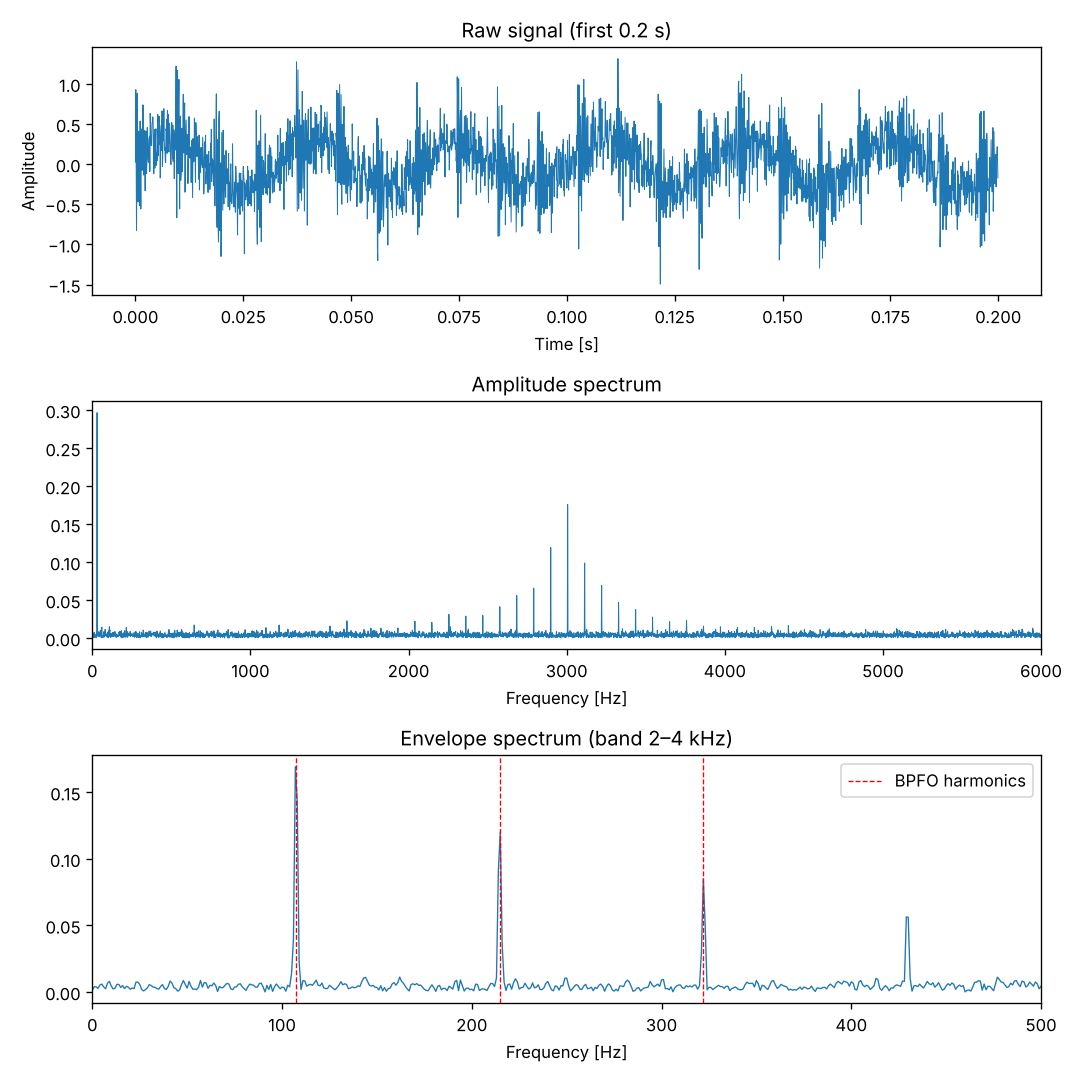
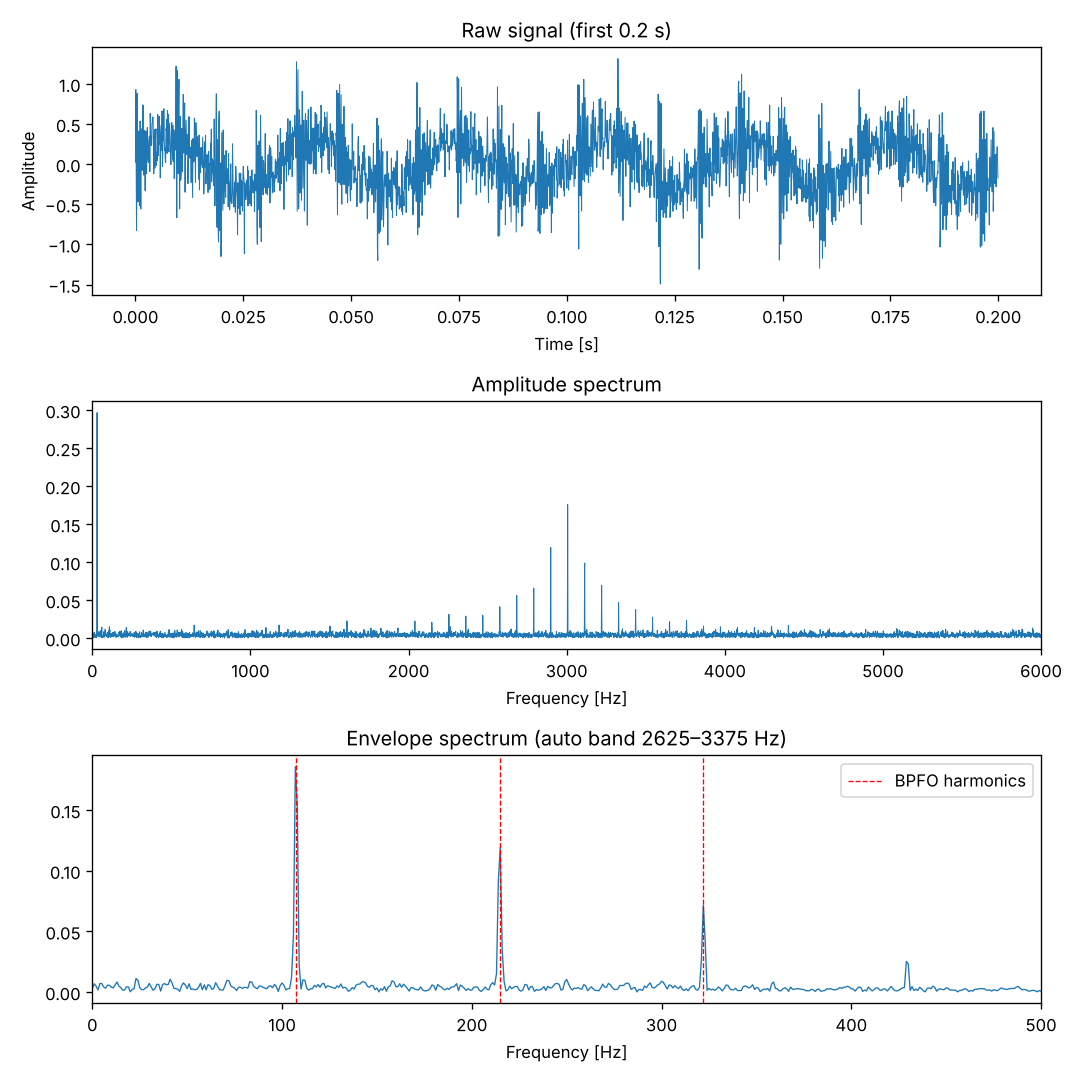
Add files via upload
v0.2.0: spectral kurtosis band selection and frequency-domain features

diff --git a/vibkit/spectral.py b/vibkit/spectral.py
@@ -41,6 +41,57 @@ def envelope_spectrum(x, fs, band=None, window="hann"):
     return amplitude_spectrum(env, fs, window=window)
 
 
+def spectral_kurtosis(x, fs, nperseg=128):
+    """Spectral kurtosis (SK) from the STFT.
+
+    SK(f) = <|X(t,f)|^4> / <|X(t,f)|^2>^2 - 2. It is ~0 for stationary
+    Gaussian noise and large in frequency bands where the signal is
+    impulsive, which is where bearing-fault impacts excite resonances.
+
+    Returns (freqs, sk).
+    """
+    f, _, z = sps.stft(np.asarray(x, dtype=float), fs=fs, nperseg=nperseg)
+    p = np.abs(z) ** 2
+    sk = np.mean(p ** 2, axis=1) / (np.mean(p, axis=1) ** 2 + 1e-24) - 2
+    sk[0] = 0.0  # DC bin is not meaningful
+    return f, sk
+
+
+def select_band(x, fs, nperseg_list=(16, 32, 64, 128)):
+    """Pick the band with the highest spectral kurtosis for envelope analysis.
+
+    A simplified kurtogram: SK is computed at several frequency resolutions;
+    the winning bin defines a band centred on it with width ``fs / nperseg``.
+
+    Finer resolutions use fewer STFT frames, so their SK estimates are noisier.
+    To compare resolutions fairly, each SK value is scored against the
+    standard deviation of SK for Gaussian noise, ~ 2 / sqrt(n_frames), and the
+    most significant bin wins.
+
+    Returns a dict with ``band`` (low, high) in Hz, ``center``, ``sk``,
+    ``score`` and ``nperseg``. Use it as
+    ``envelope_spectrum(x, fs, band=res["band"])``.
+    """
+    best = None
+    nyq = fs / 2
+    n_samples = np.asarray(x).size
+    for n in nperseg_list:
+        f, sk = spectral_kurtosis(x, fs, nperseg=n)
+        bw = fs / n
+        valid = (f - bw / 2 > 0) & (f + bw / 2 < nyq)
+        if not valid.any():
+            continue
+        n_frames = max(1, 2 * n_samples // n)  # default STFT overlap is 50%
+        score = sk * np.sqrt(n_frames) / 2
+        i = np.flatnonzero(valid)[np.argmax(score[valid])]
+        if best is None or score[i] > best["score"]:
+            best = {"band": (f[i] - bw / 2, f[i] + bw / 2), "center": f[i],
+                    "sk": float(sk[i]), "score": float(score[i]), "nperseg": n}
+    if best is None:
+        raise ValueError("signal too short for the requested resolutions")
+    return best
+
+
 def spectrogram(x, fs, nperseg=256, noverlap=None, log=True):
     """Short-time Fourier transform magnitude.
 

diff --git a/tests/test_vibkit.py b/tests/test_vibkit.py
@@ -83,3 +83,37 @@ def test_contact_angle_changes_frequencies():
     g0 = BearingGeometry(9, 0.3, 1.5, 0)
     g15 = BearingGeometry(9, 0.3, 1.5, 15)
     assert fault_frequencies(g15, 30)["BPFO"] > fault_frequencies(g0, 30)["BPFO"]
+
+
+# ---- v0.2.0: spectral kurtosis band selection & frequency features ----
+
+def test_select_band_finds_resonance():
+    from vibkit import select_band
+    sys.path.insert(0, str(Path(__file__).resolve().parents[1] / "examples"))
+    from demo_outer_race_fault import simulate_outer_race_fault
+    fs = 12_000
+    _, x, bpfo = simulate_outer_race_fault(fs=fs, snr_db=-5, resonance_hz=3_000)
+    res = select_band(x, fs)
+    lo, hi = res["band"]
+    assert 2_000 < (lo + hi) / 2 < 4_000  # inside the excited resonance region
+    f, a = envelope_spectrum(x, fs, band=res["band"])
+    sel = (f > 20) & (f < 500)
+    assert f[sel][np.argmax(a[sel])] == pytest.approx(bpfo, abs=2)
+
+
+def test_spectral_kurtosis_gaussian_near_zero():
+    from vibkit import spectral_kurtosis
+    x = np.random.default_rng(3).normal(size=60_000)
+    _, sk = spectral_kurtosis(x, fs=1000, nperseg=128)
+    assert np.median(np.abs(sk[1:-1])) < 0.2
+
+
+def test_frequency_features_sine():
+    from vibkit import frequency_features, FREQ_FEATURE_NAMES
+    fs = 1000
+    t = np.arange(1000) / fs
+    sine = dict(zip(FREQ_FEATURE_NAMES, frequency_features(np.sin(2 * np.pi * 120 * t), fs)[0]))
+    assert sine["peak_freq"] == pytest.approx(120)
+    assert sine["mean_freq"] == pytest.approx(120, abs=1)
+    noise = frequency_features(np.random.default_rng(4).normal(size=1000), fs)[0]
+    assert sine["spectral_entropy"] < 0.1 < 0.8 < noise[4]

diff --git a/vibkit/features.py b/vibkit/features.py
@@ -41,3 +41,33 @@ def time_features(windows, eps=1e-12):
     return np.column_stack(
         [mean, std, rms, peak, p2p, skew, kurt, crest, shape, impulse, clearance]
     )
+
+
+FREQ_FEATURE_NAMES = [
+    "mean_freq", "freq_std", "rms_freq", "peak_freq", "spectral_entropy",
+]
+
+
+def frequency_features(windows, fs, eps=1e-12):
+    """Compute 5 frequency-domain features per window from its power spectrum.
+
+    mean_freq        : spectral centroid (Hz)
+    freq_std         : spread of the spectrum around the centroid (Hz)
+    rms_freq         : root-mean-square frequency (Hz)
+    peak_freq        : frequency of the largest spectral line (Hz)
+    spectral_entropy : normalized Shannon entropy of the spectrum, in [0, 1]
+                       (low = energy in a few lines, high = noise-like)
+
+    Returns np.ndarray, shape (n_windows, 5) — columns follow ``FREQ_FEATURE_NAMES``.
+    """
+    w = np.atleast_2d(np.asarray(windows, dtype=float))
+    w = w - w.mean(axis=1, keepdims=True)
+    p = np.abs(np.fft.rfft(w, axis=1)) ** 2
+    f = np.fft.rfftfreq(w.shape[1], d=1.0 / fs)
+    prob = p / (p.sum(axis=1, keepdims=True) + eps)
+    mean_f = prob @ f
+    std_f = np.sqrt(np.sum(prob * (f[None, :] - mean_f[:, None]) ** 2, axis=1))
+    rms_f = np.sqrt(prob @ f ** 2)
+    peak_f = f[np.argmax(p, axis=1)]
+    ent = -np.sum(prob * np.log(prob + eps), axis=1) / np.log(f.size)
+    return np.column_stack([mean_f, std_f, rms_f, peak_f, ent])

diff --git a/examples/demo_outer_race_fault.py b/examples/demo_outer_race_fault.py
@@ -14,7 +14,7 @@ import matplotlib.pyplot as plt
 
 sys.path.insert(0, str(Path(__file__).resolve().parents[1]))
 from vibkit import (amplitude_spectrum, envelope_spectrum, spectrogram,  # noqa: E402
-                    fault_frequencies, time_features, FEATURE_NAMES)
+                    fault_frequencies, time_features, FEATURE_NAMES, select_band)
 from vibkit.bearing import CWRU_DE_6205  # noqa: E402
 
 
@@ -52,7 +52,10 @@ def main():
     print(f"Kurtosis: {feats['kurtosis']:.2f}  (Gaussian noise ~ 3)")
 
     f, a = amplitude_spectrum(x, fs)
-    fe, ae = envelope_spectrum(x, fs, band=(2_000, 4_000))
+    res = select_band(x, fs)  # automatic band via spectral kurtosis
+    lo, hi = res["band"]
+    print(f"Band selected by spectral kurtosis: {lo:.0f}-{hi:.0f} Hz (SK = {res['sk']:.1f})")
+    fe, ae = envelope_spectrum(x, fs, band=res["band"])
     sel = (fe > 20) & (fe < 500)
     peak = fe[sel][np.argmax(ae[sel])]
     print(f"Largest envelope-spectrum peak: {peak:.1f} Hz")
@@ -66,7 +69,7 @@ def main():
     for k in range(1, 4):
         axes[2].axvline(k * bpfo, color="r", ls="--", lw=0.8,
                         label="BPFO harmonics" if k == 1 else None)
-    axes[2].set(title="Envelope spectrum (band 2–4 kHz)", xlabel="Frequency [Hz]",
+    axes[2].set(title=f"Envelope spectrum (auto band {lo:.0f}–{hi:.0f} Hz)", xlabel="Frequency [Hz]",
                 xlim=(0, 500))
     axes[2].legend()
     fig.tight_layout()

diff --git a/vibkit/__init__.py b/vibkit/__init__.py
@@ -1,21 +1,27 @@
 """vibkit: small, dependency-light tools for vibration-based machine diagnosis."""
 
 from .segmentation import sliding_windows, normalize
-from .features import time_features, FEATURE_NAMES
-from .spectral import amplitude_spectrum, envelope_spectrum, spectrogram, bandpass
+from .features import (time_features, FEATURE_NAMES,
+                       frequency_features, FREQ_FEATURE_NAMES)
+from .spectral import (amplitude_spectrum, envelope_spectrum, spectrogram, bandpass,
+                       spectral_kurtosis, select_band)
 from .bearing import BearingGeometry, fault_frequencies
 
-__version__ = "0.1.0"
+__version__ = "0.2.0"
 
 __all__ = [
     "sliding_windows",
     "normalize",
     "time_features",
     "FEATURE_NAMES",
+    "frequency_features",
+    "FREQ_FEATURE_NAMES",
     "amplitude_spectrum",
     "envelope_spectrum",
     "spectrogram",
     "bandpass",
+    "spectral_kurtosis",
+    "select_band",
     "BearingGeometry",
     "fault_frequencies",
 ]

diff --git a/README.md b/README.md
@@ -14,8 +14,8 @@ Built as a clean preprocessing base for deep-learning bearing diagnosis experime
 | Module | What it does |
 |---|---|
 | `vibkit.segmentation` | Sliding-window segmentation (with overlap for augmentation), per-sample z-score / min-max normalization |
-| `vibkit.features` | 11 time-domain indicators: RMS, peak, kurtosis, skewness, crest / shape / impulse / clearance factors, … |
-| `vibkit.spectral` | Amplitude spectrum, band-pass filtering, Hilbert **envelope spectrum**, STFT spectrogram |
+| `vibkit.features` | 11 time-domain indicators (RMS, kurtosis, crest / impulse / clearance factors, …) and 5 frequency-domain indicators (spectral centroid, spread, RMS frequency, peak frequency, spectral entropy) |
+| `vibkit.spectral` | Amplitude spectrum, band-pass filtering, Hilbert **envelope spectrum**, **spectral kurtosis** with automatic band selection, STFT spectrogram |
 | `vibkit.bearing` | BPFO, BPFI, BSF, FTF from bearing geometry (CWRU 6205 drive-end geometry included) |
 | `vibkit.datasets` | Loader for CWRU `.mat` files → `X, y` arrays ready for training |
 
@@ -51,6 +51,24 @@ print(fault_frequencies(CWRU_DE_6205, shaft_hz=1797 / 60))
 f, a = envelope_spectrum(x, fs, band=(2_000, 4_000))
 ```
 
+### Automatic band selection (spectral kurtosis)
+
+Envelope analysis works best when the signal is first filtered around the
+resonance that the fault impacts excite. `select_band` finds that band
+automatically with a simplified kurtogram: spectral kurtosis is computed at
+several frequency resolutions and the most statistically significant band wins.
+
+```python
+from vibkit import select_band, envelope_spectrum
+
+res = select_band(x, fs)
+print(res["band"])            # e.g. (2625.0, 3375.0) Hz
+f, a = envelope_spectrum(x, fs, band=res["band"])
+```
+
+On the simulated outer-race fault the selected band finds BPFO in 20/20 runs at
+0 dB and −5 dB SNR, and in 14/20 runs at −10 dB, where the fault is deeply buried in noise.
+
 ### Loading CWRU data
 
 Download the `.mat` files from the
@@ -76,8 +94,9 @@ python examples/demo_outer_race_fault.py
 ```
 
 Simulates periodic impacts from an outer-race defect exciting a 3 kHz resonance,
-buried in noise. The fault is hard to see in the raw signal and the plain spectrum,
-but the envelope spectrum shows clear peaks at BPFO (107.4 Hz) and its harmonics.
+buried in noise. Spectral kurtosis selects the band around the resonance, and the
+envelope spectrum shows clear peaks at BPFO (107.4 Hz) and its harmonics, although
+the fault is hard to see in the raw signal and the plain spectrum.
 
 ## Tests
 
@@ -87,6 +106,11 @@ pytest
 
 Tests check the spectra against known sine amplitudes, the features against analytical
 values, and the fault frequencies against the published CWRU values.
+
+## Changelog
+
+- **0.2.0**: spectral kurtosis and automatic band selection (`spectral_kurtosis`, `select_band`); frequency-domain features (`frequency_features`); the demo now selects its band automatically.
+- **0.1.0**: first release: segmentation, time-domain features, spectra, envelope analysis, bearing fault frequencies, CWRU loader.
 
 ## License
 
